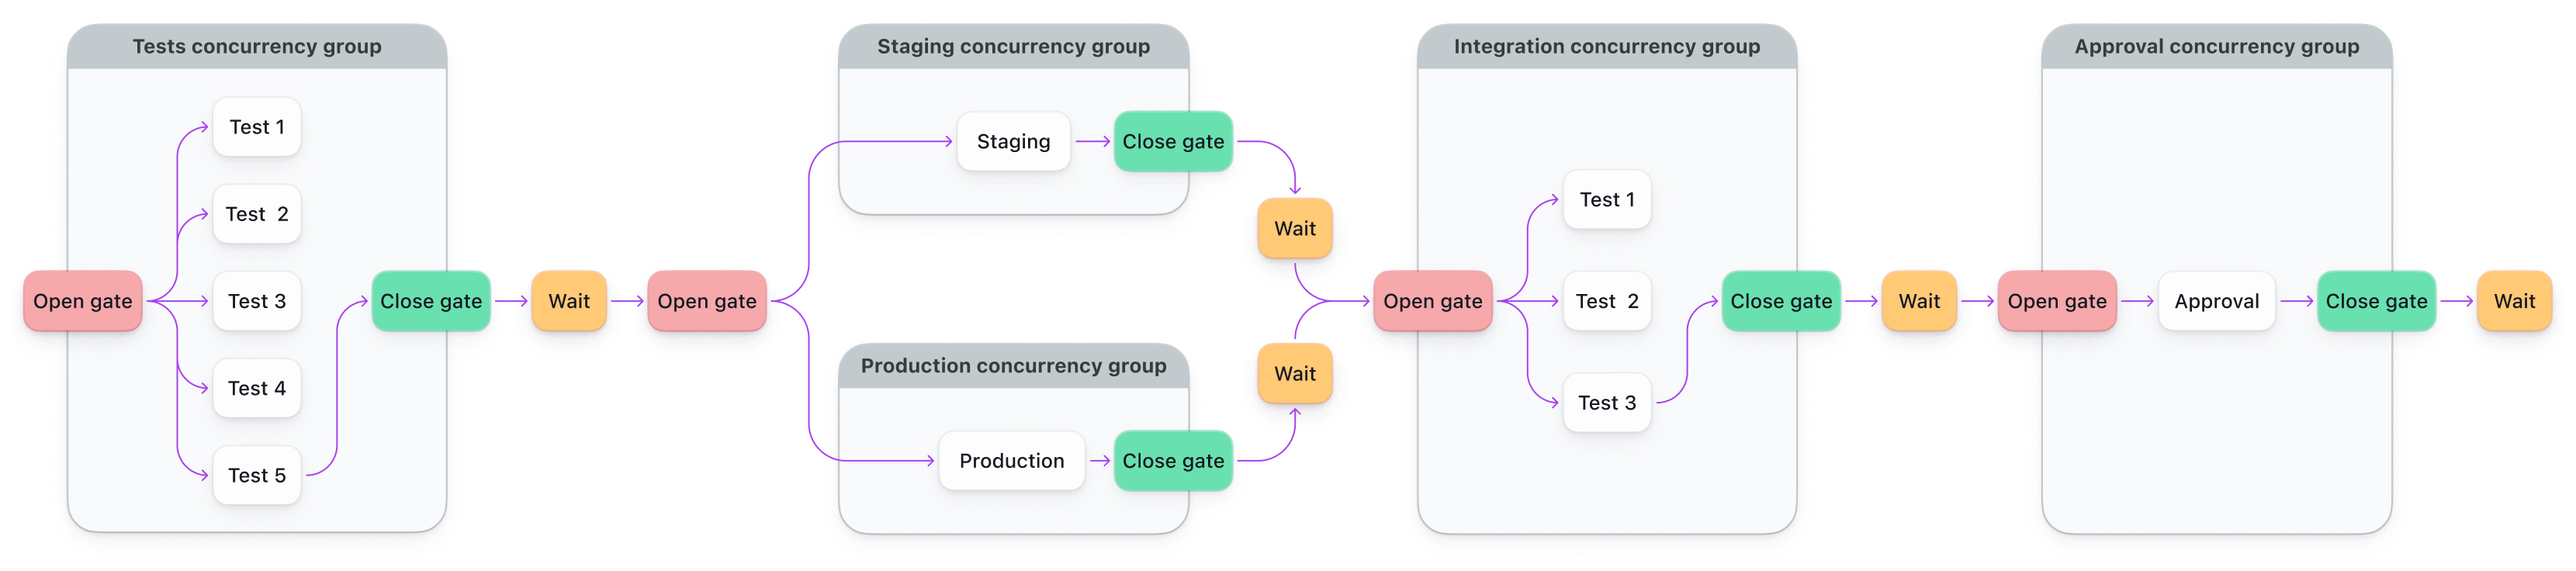
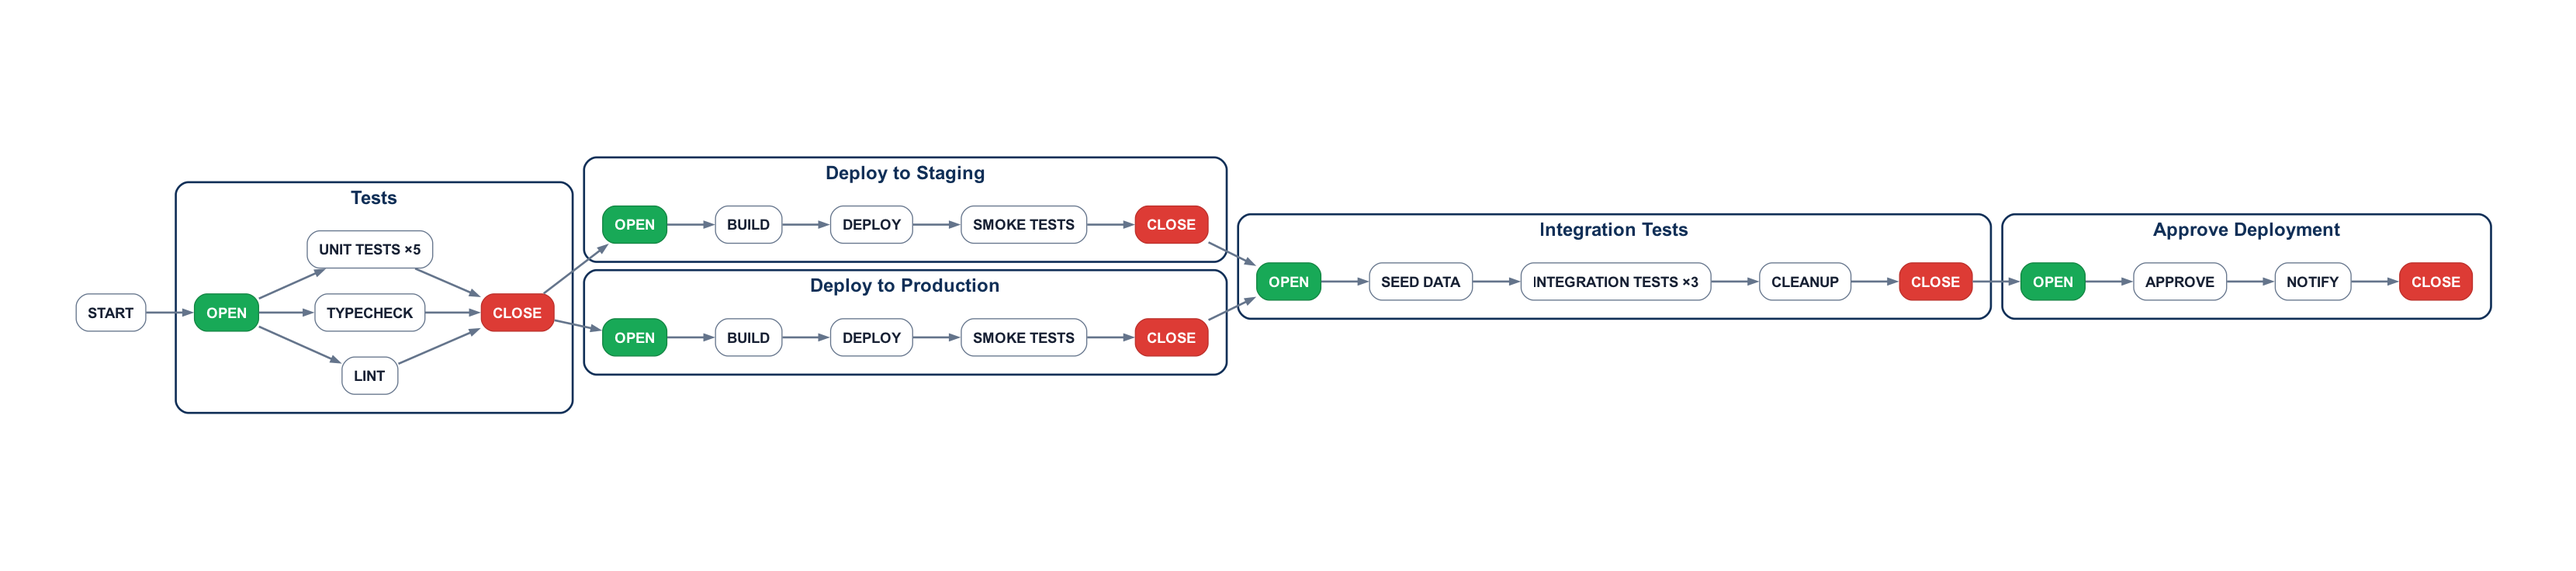
Address concurrency gate review feedback
Amp-Thread-ID: https://ampcode.com/threads/T-01a06a23-8cd4-7474-b696-ebcac22c3a2c

diff --git a/README.md b/README.md
@@ -23,11 +23,11 @@ This example models a simple gated workflow with concurrency limits and parallel
 
 ![Visual Description](.buildkite/concurrency-diagram.png)
 
-1. The **Running concurrency gate example** step prints a quick message to start the pipeline.
-2. The **Tests** step runs in parallel (up to 5 at once), controlled by a concurrency gate.
-3. When tests finish, the gates for **Deploy to Staging** and **Deploy to Production** open. These run independently.
-4. Once both deploy steps complete, **Integration Tests** run in parallel (up to 3 at once).
-5. After integration tests finish, the **Approve Deployment** step is triggered.
+1. The **Start** step prints a quick message to begin the pipeline.
+2. The **Tests** gate runs linting, type checking, and five unit-test jobs in parallel.
+3. When tests finish, the **Deploy to Staging** and **Deploy to Production** gates run independently. Each builds an artifact, deploys it, and runs smoke tests.
+4. Once both deployments complete, the **Integration Tests** gate seeds test data, runs three test jobs in parallel, and cleans up the data.
+5. The **Approve Deployment** gate runs the approval and notification steps.
 
 > 🔄 **Parallelism** runs multiple jobs at once.
 > ⛔ **Concurrency groups** limit how many jobs run at once — even across separate builds.
@@ -38,14 +38,14 @@ More on this in the [Buildkite docs on controlling concurrency](https://buildkit
 
 ## Pipeline Steps
 
-- **Running concurrency gate example**: Just prints a message to kick things off.
-- **Tests**: Runs up to 5 jobs in parallel, using the `tests` concurrency group.
-- **Deploy to Staging**: Waits for tests to finish. Uses the `deploy-staging` concurrency group.
-- **Deploy to Production**: Also waits for tests. Uses the `deploy-production` concurrency group.
-- **Integration Tests**: Waits for both deploy steps. Runs up to 3 jobs in parallel in the `integration-tests` group.
-- **Approve Deployment**: Waits for integration tests, and runs in the `approval` concurrency group.
+- **Start**: Prints a message to kick things off.
+- **Tests**: Runs linting, type checking, and up to five unit-test jobs inside the `concurrency-group-example/tests` gate.
+- **Deploy to Staging**: Waits for tests, then builds, deploys, and smoke-tests staging inside the `concurrency-group-example/deploy-staging` gate.
+- **Deploy to Production**: Also waits for tests, then builds, deploys, and smoke-tests production inside the `concurrency-group-example/deploy-production` gate.
+- **Integration Tests**: Waits for both deployments, then seeds data, runs up to three test jobs, and cleans up inside the `concurrency-group-example/integration-tests` gate.
+- **Approve Deployment**: Waits for integration tests, then approves and sends a notification inside the `concurrency-group-example/approve-deployment` gate.
 
-Each step uses `depends_on` and `concurrency_group` to manage gates and limits.
+Each gate uses two steps with the same namespaced `concurrency_group` and a `concurrency` limit of 1. The opening step lets a build enter the gate, while the closing step prevents a later build from entering until the work between them finishes. The steps inside a gate use `depends_on` and do not consume concurrency slots themselves.
 
 ## 🧠 Advanced Usage Notes
 
@@ -54,7 +54,9 @@ This setup mixes `depends_on` with concurrency groups to create gates between ph
 You can:
 - Gate steps across branches or fan-in/fan-out setups
 - Limit job execution globally (not just per pipeline)
-- Create human approval gates at the end of automated flows
+- Run parallel work while allowing only one build at a time through a gate
+
+Concurrency group names apply across the entire Buildkite organization. Namespace them for the pipeline or shared resource they protect to avoid unintentionally limiting unrelated builds.
 
 Want help modeling a complex pipeline? [Reach out to support](https://buildkite.com/support) — we love this stuff.
 
